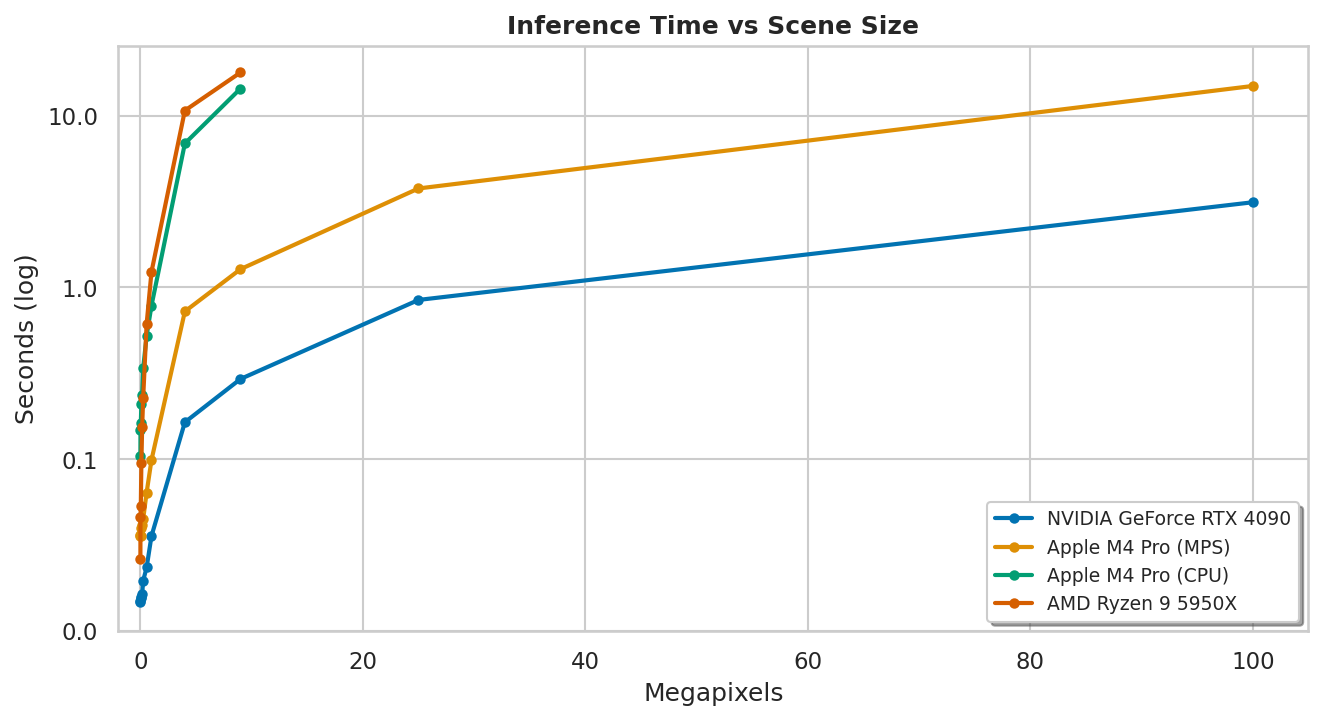
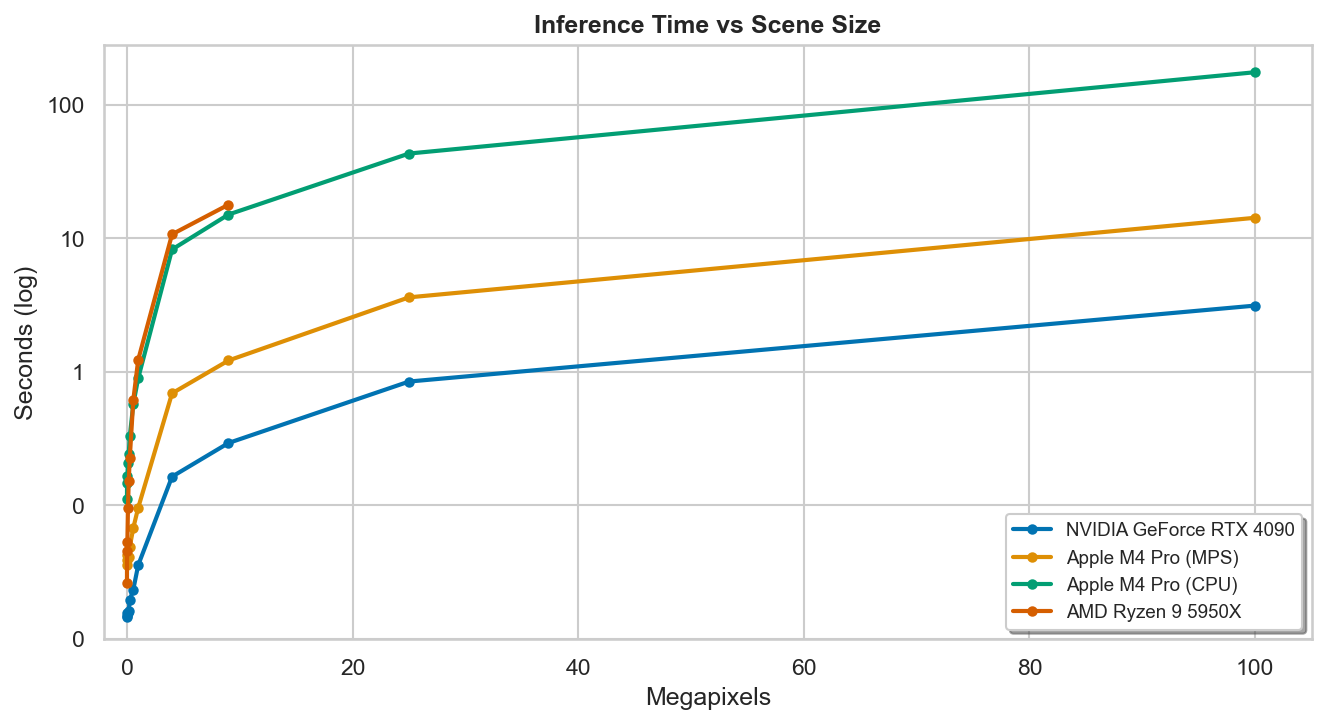
M4 pro stats

diff --git a/docs/benchmarks.md b/docs/benchmarks.md
@@ -33,18 +33,18 @@ OmniCloudMask 1.7.1 &middot; Darwin 25.2.0 &middot; 64.0 GB RAM
 
 | Scene size | fp32 | Batch (fp32) | fp16 | Batch (fp16) |
 | --- | --- | --- | --- | --- |
-| **50×50 px** | 0.039s | 1 | 0.036s | 1 |
-| **100×100 px** | 0.040s | 1 | 0.036s | 1 |
-| **200×200 px** | 0.036s | 1 | 0.036s | 1 |
-| **300×300 px** | 0.039s | 1 | 0.040s | 1 |
+| **50×50 px** | 0.033s | 1 | 0.036s | 1 |
+| **100×100 px** | 0.036s | 1 | 0.043s | 1 |
+| **200×200 px** | 0.037s | 1 | 0.039s | 1 |
+| **300×300 px** | 0.040s | 1 | 0.041s | 1 |
 | **400×400 px** | 0.042s | 1 | 0.041s | 1 |
-| **500×500 px** | 0.046s | 1 | 0.045s | 1 |
-| **750×750 px** | 0.077s | 1 | 0.064s | 1 |
-| **1000×1000 px** | 0.119s | 1 | 0.099s | 1 |
-| **2000×2000 px** | 0.946s | 2 | 0.725s | 2 |
-| **3000×3000 px** | 1.665s | 4 | 1.278s | 2 |
-| **5000×5000 px** | 4.758s | 4 | 3.772s | 1 |
-| **10000×10000 px** | 18.750s | 2 | 14.915s | 1 |
+| **500×500 px** | 0.049s | 1 | 0.049s | 1 |
+| **750×750 px** | 0.073s | 1 | 0.068s | 1 |
+| **1000×1000 px** | 0.120s | 1 | 0.096s | 1 |
+| **2000×2000 px** | 0.902s | 1 | 0.691s | 1 |
+| **3000×3000 px** | 1.620s | 4 | 1.217s | 4 |
+| **5000×5000 px** | 4.691s | 4 | 3.615s | 1 |
+| **10000×10000 px** | 17.767s | 4 | 14.258s | 1 |
 
 ## Apple M4 Pro (CPU)
 
@@ -52,16 +52,18 @@ OmniCloudMask 1.7.1 &middot; Darwin 25.2.0 &middot; 64.0 GB RAM
 
 | Scene size | fp32 | Batch |
 | --- | --- | --- |
-| **50×50 px** | 0.105s | 1 |
+| **50×50 px** | 0.113s | 1 |
 | **100×100 px** | 0.147s | 1 |
-| **200×200 px** | 0.162s | 1 |
-| **300×300 px** | 0.210s | 1 |
-| **400×400 px** | 0.237s | 1 |
-| **500×500 px** | 0.338s | 1 |
-| **750×750 px** | 0.523s | 1 |
-| **1000×1000 px** | 0.785s | 1 |
-| **2000×2000 px** | 6.896s | 1 |
-| **3000×3000 px** | 14.408s | 1 |
+| **200×200 px** | 0.166s | 1 |
+| **300×300 px** | 0.209s | 1 |
+| **400×400 px** | 0.243s | 1 |
+| **500×500 px** | 0.328s | 1 |
+| **750×750 px** | 0.573s | 1 |
+| **1000×1000 px** | 0.898s | 1 |
+| **2000×2000 px** | 8.252s | 1 |
+| **3000×3000 px** | 15.078s | 1 |
+| **5000×5000 px** | 43.165s | 1 |
+| **10000×10000 px** | 175.526s | 1 |
 
 ## AMD Ryzen 9 5950X
 

diff --git a/benchmarking/README.md b/benchmarking/README.md
@@ -34,7 +34,7 @@ Run this script and commit both outputs whenever new results are added.
 To build and serve the documentation locally with live reloading:
 
 ```bash
-uv run --with sphinx-autobuild --with sphinx-rtd-theme --with myst-parser sphinx-autobuild docs docs/_build/html
+uv run sphinx-autobuild docs docs/_build/html
 ```
 
 The docs will be served at `http://127.0.0.1:8000` and will automatically rebuild when you edit any source files.
